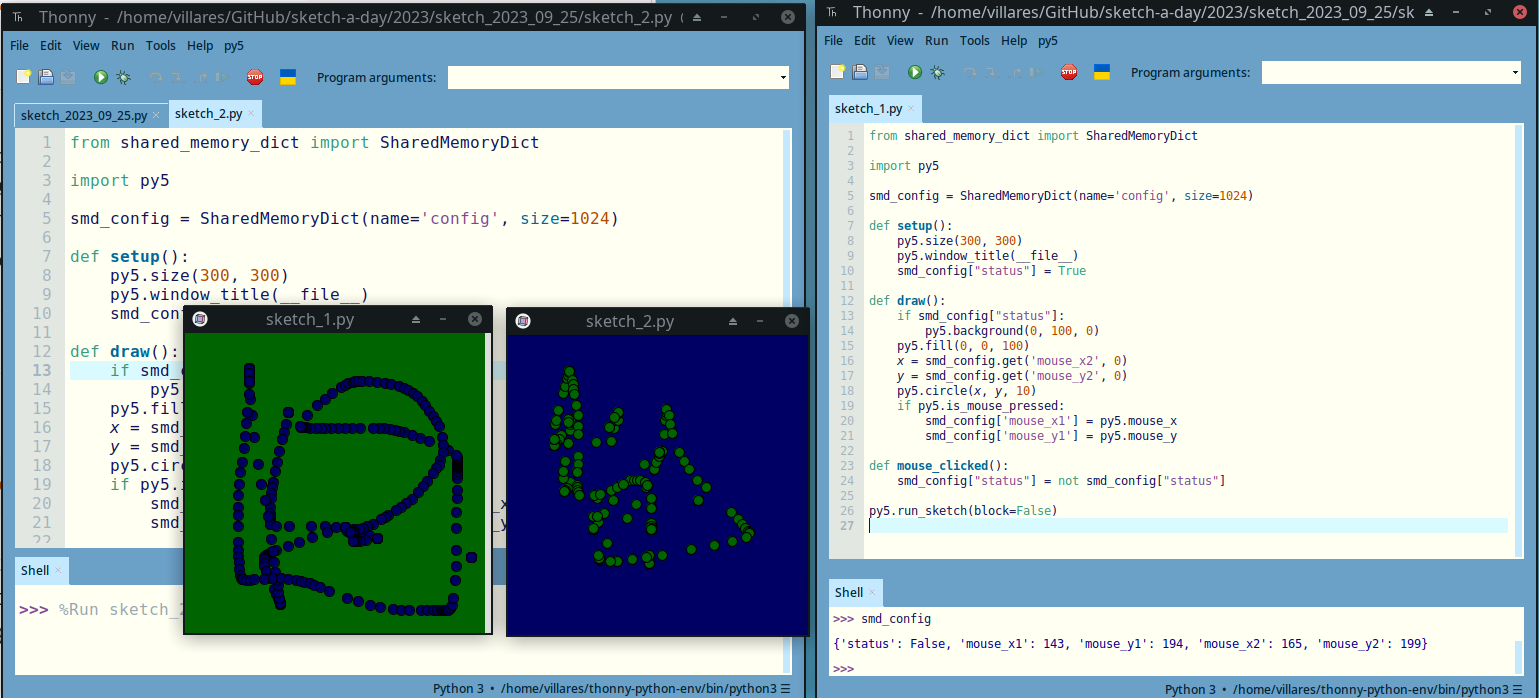
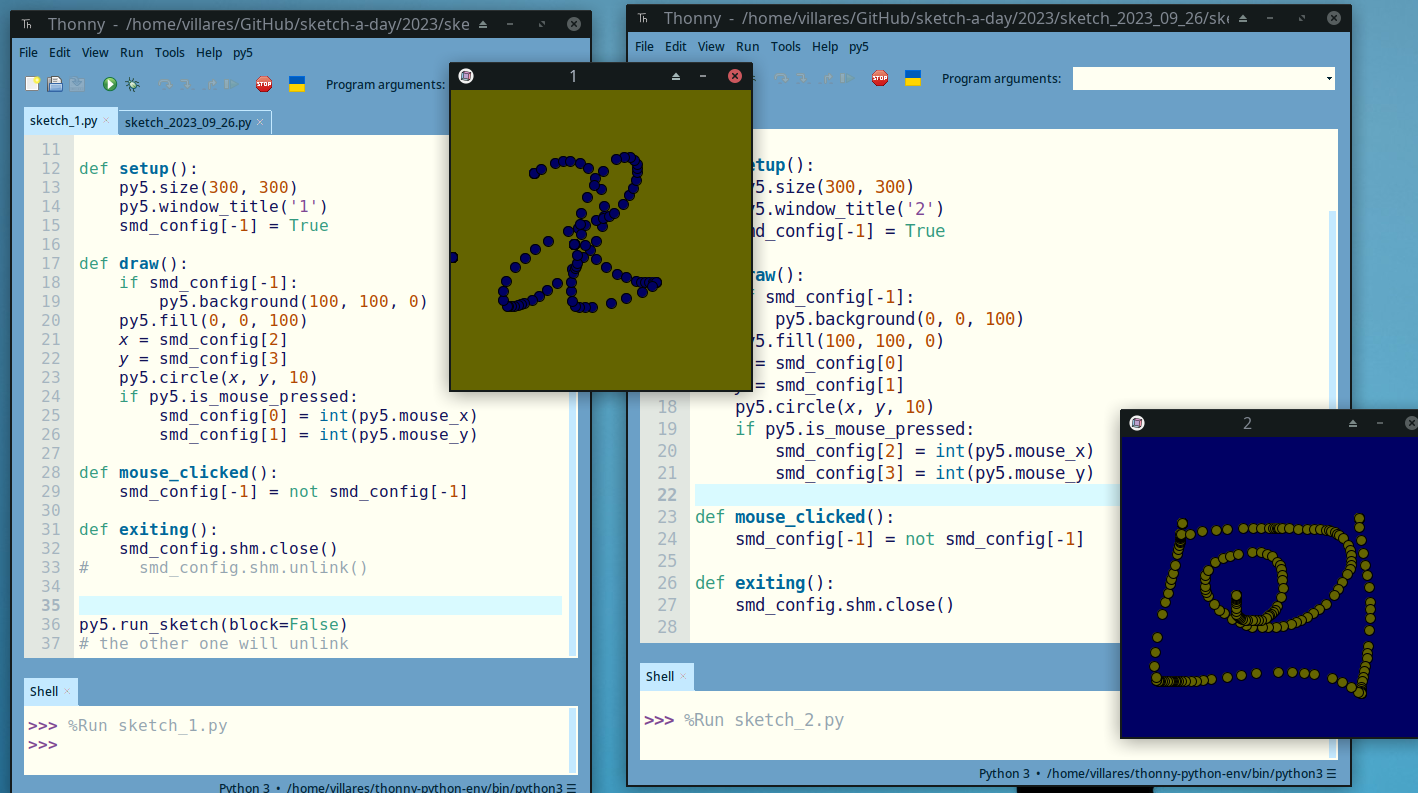
seconde attempt at shared_memory

diff --git a/2023/sketch_2023_09_25/sketch_1.py b/2023/sketch_2023_09_25/sketch_1.py
@@ -1,32 +1,37 @@
-from shared_memory_dict import SharedMemoryDict
+from multiprocessing import shared_memory
 
 import py5
 
-smd_config = SharedMemoryDict(name='config', size=1024)
+# This does not let you set the name...
+# smm = shared_memory.SharedMemoryManager()
+# smm.start()
+# sl = smm.ShareableList([0, 0, 0, 0, True])
+
+smd_config = shared_memory.ShareableList([0, 0, 0, 0, True], name='09-26')
 
 def setup():
     py5.size(300, 300)
     py5.window_title('1')
-    smd_config["status"] = True
+    smd_config[-1] = True
 
 def draw():
-    if smd_config["status"]:
-        py5.background(0, 100, 0)    
+    if smd_config[-1]:
+        py5.background(100, 100, 0)    
     py5.fill(0, 0, 100)
-    x = smd_config.get('mouse_x2', 0)
-    y = smd_config.get('mouse_y2', 0)
+    x = smd_config[2]
+    y = smd_config[3]
     py5.circle(x, y, 10)
     if py5.is_mouse_pressed:
-        smd_config['mouse_x1'] = py5.mouse_x
-        smd_config['mouse_y1'] = py5.mouse_y
+        smd_config[0] = int(py5.mouse_x)
+        smd_config[1] = int(py5.mouse_y)
             
 def mouse_clicked():
-    smd_config["status"] = not smd_config["status"]
+    smd_config[-1] = not smd_config[-1]
 
 def exiting():
     smd_config.shm.close()
-    smd_config.shm.unlink()
+#     smd_config.shm.unlink()
     
 
-py5.run_sketch(block=False)
+py5.run_sketch()
 # the other one will unlink

diff --git a/2023/sketch_2023_09_25/sketch_2.py b/2023/sketch_2023_09_25/sketch_2.py
@@ -1,32 +1,32 @@
-from shared_memory_dict import SharedMemoryDict
-
+from multiprocessing import shared_memory
+from time import sleep
 import py5
 
-smd_config = SharedMemoryDict(name='config', size=1024)
+sleep(2)
+smd_config = shared_memory.ShareableList(name='09-26')
 
 def setup():
     py5.size(300, 300)
     py5.window_title('2')
-    smd_config["status"] = True
+    smd_config[-1] = True
 
 def draw():
-    if smd_config["status"]:
-        py5.background(0, 0, 100)
-    py5.fill(0, 100, 0)
-    x = smd_config.get('mouse_x1', 0)
-    y = smd_config.get('mouse_y1', 0)
+    if smd_config[-1]:
+        py5.background(0, 0, 100)    
+    py5.fill(100, 100, 0)
+    x = smd_config[0]
+    y = smd_config[1]
     py5.circle(x, y, 10)
     if py5.is_mouse_pressed:
-        smd_config['mouse_x2'] = py5.mouse_x
-        smd_config['mouse_y2'] = py5.mouse_y
+        smd_config[2] = int(py5.mouse_x)
+        smd_config[3] = int(py5.mouse_y)
             
 def mouse_clicked():
-    smd_config["status"] = not smd_config["status"]
-      
+    smd_config[-1] = not smd_config[-1]
+
 def exiting():
     smd_config.shm.close()
-    #smd_config.shm.unlink()
 
 py5.run_sketch()
-
+smd_config.shm.unlink()
 
